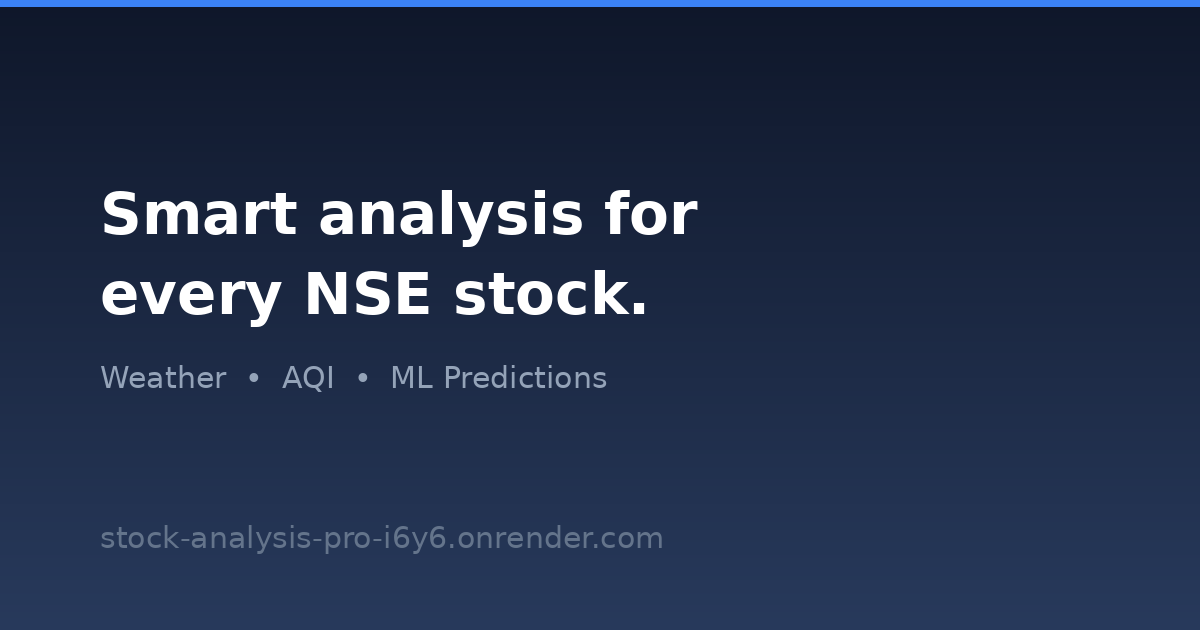
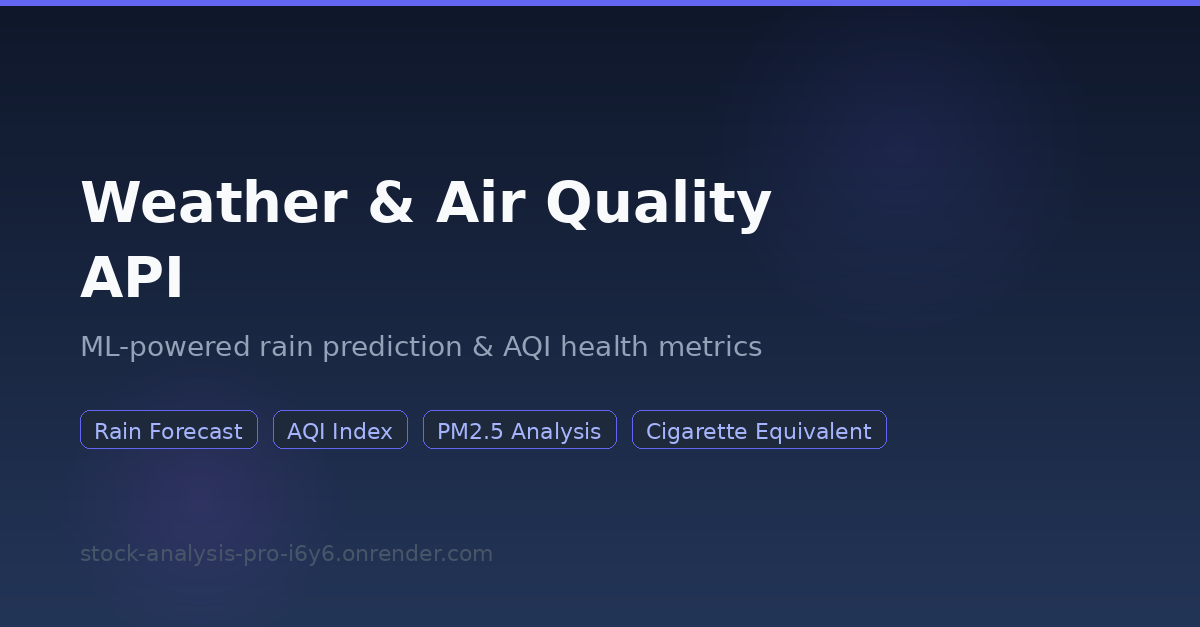
Fix OG image to meet LinkedIn requirements (1200x627)
- Resize og-image.png from 1200x630 to 1200x627 (1.91:1 ratio)
- Add og:image:width and og:image:height meta tags to both pages
- Improve image design with gradient background, feature pills, and branding

LinkedIn requires 1200x627 minimum with explicit dimension hints for
reliable link preview rendering.

https://claude.ai/code/session_01QpckeAXt2JADDMdhJiuPyX

diff --git a/rain_prediction_ml.py b/rain_prediction_ml.py
@@ -172,6 +172,8 @@ def home():
         <meta property="og:description" content="Smart analysis for every NSE stock. Real-time weather forecasts and air quality data powered by machine learning.">
         <meta property="og:type" content="website">
         <meta property="og:image" content="https://stock-analysis-pro-i6y6.onrender.com/static/og-image.png">
+        <meta property="og:image:width" content="1200">
+        <meta property="og:image:height" content="627">
         <meta property="og:url" content="https://stock-analysis-pro-i6y6.onrender.com/">
         <meta name="twitter:card" content="summary_large_image">
         <meta name="twitter:title" content="ML Weather & AQI API">
@@ -598,6 +600,8 @@ def rain_forecast_html():
             <meta property="og:description" content="Weather forecast and rain prediction for {location['name']}. Powered by machine learning.">
             <meta property="og:type" content="website">
             <meta property="og:image" content="https://stock-analysis-pro-i6y6.onrender.com/static/og-image.png">
+            <meta property="og:image:width" content="1200">
+            <meta property="og:image:height" content="627">
             <meta property="og:url" content="https://stock-analysis-pro-i6y6.onrender.com/">
             <meta name="twitter:card" content="summary_large_image">
             <meta name="twitter:title" content="Weather Forecast - {location['name']}">
